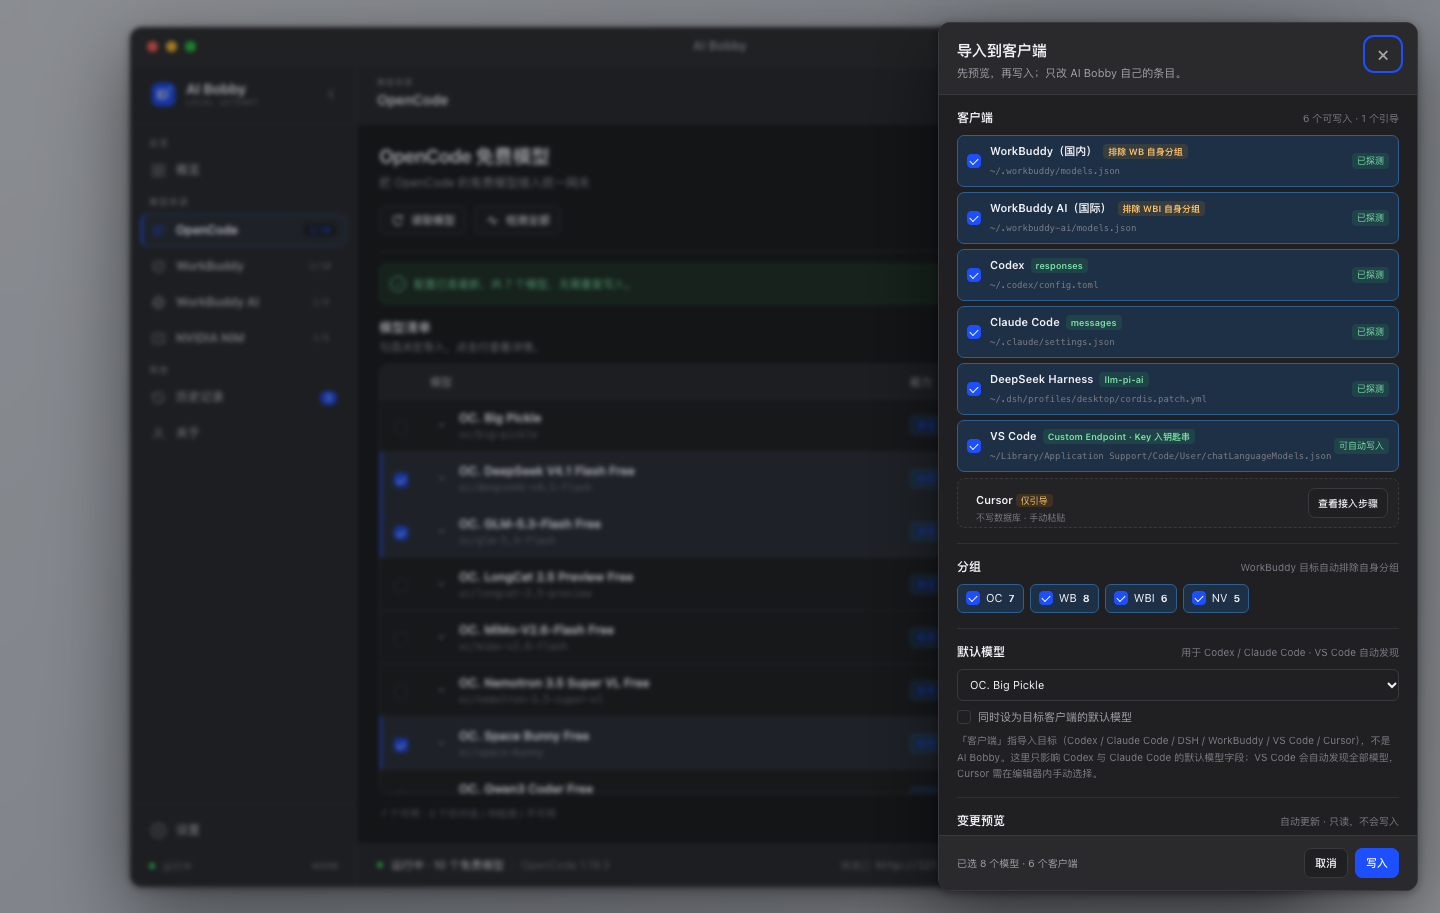
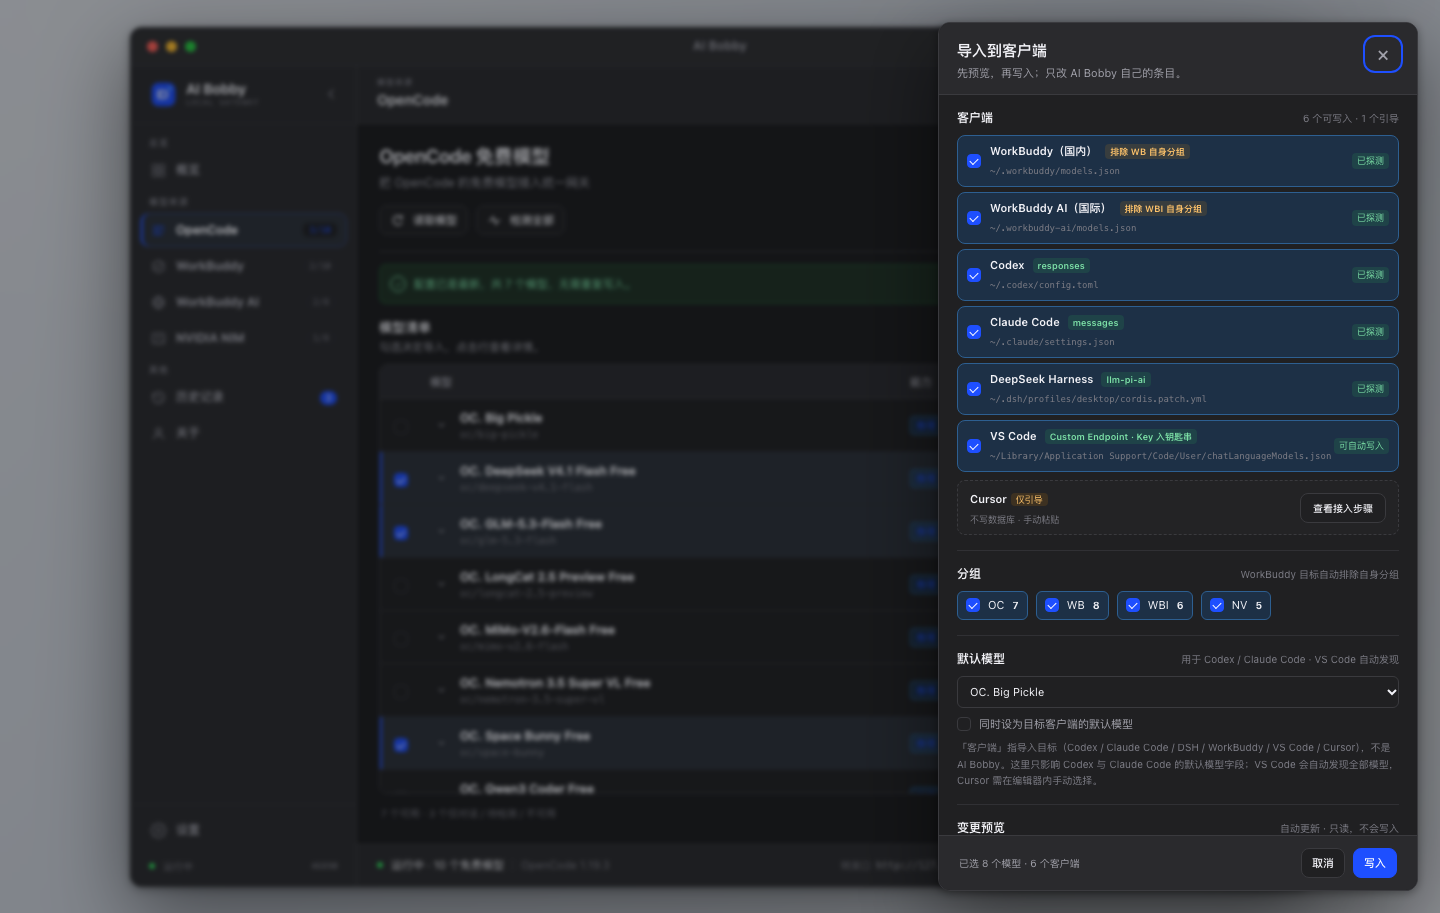
design: fix Cursor guide text touching its dashed border
The row container and the (now removed) copy button both used .guide-copy;
the button's fixed 24px height clipped the container, so the second line sat
on the border. Rename the container to .guide-text, drop the dead button
rule, and measure the 8px inset. Document the class/height rules in
ui-guideline §5.8.

diff --git a/prototype/desktop/styles.css b/prototype/desktop/styles.css
@@ -2042,9 +2042,9 @@ a.music-album-card .album-arrow { margin-left: auto; color: var(--accent); font-
   border-radius: 8px;
   background: color-mix(in oklab, var(--surface-2) 60%, transparent);
 }
-.guide-copy { min-width: 0; }
-.guide-copy strong { font-size: 11px; font-weight: 600; color: var(--text); }
-.guide-copy p { margin: 4px 0 0; color: var(--faint); font-size: 9px; }
+.guide-text { min-width: 0; }
+.guide-text strong { font-size: 11px; font-weight: 600; color: var(--text); }
+.guide-text p { margin: 4px 0 0; color: var(--faint); font-size: 9px; }
 .guide-open {
   flex: 0 0 auto;
   height: 28px;
@@ -2108,13 +2108,7 @@ a.music-album-card .album-arrow { margin-left: auto; color: var(--accent); font-
 .guide-steps strong { display: block; font-size: 11px; color: var(--text); }
 .guide-steps p { margin: 4px 0; color: var(--faint); font-size: 10px; line-height: 1.5; }
 .guide-steps code { font: 9px var(--mono); color: var(--muted-text); }
-.guide-steps .guide-url { display: block; margin-top: 3px; padding: 4px 8px; border-radius: 4px; background: var(--surface-2); }
-.guide-copy {
-  height: 24px;
-  padding: 0 8px;
-  font-size: 9px;
-  margin-top: 4px;
-}
+.guide-steps .guide-url { display: block; margin-top: 4px; padding: 4px 8px; border-radius: 4px; background: var(--surface-2); }
 .proxy-targets label.disabled { opacity: 0.45; }
 .proxy-targets input:disabled { cursor: not-allowed; }
 

diff --git a/prototype/desktop/app.js b/prototype/desktop/app.js
@@ -898,7 +898,7 @@
     const guides = CLIENTS.filter(client => client.mode === 'guide');
     $('#client-guide').innerHTML = guides.length === 0 ? '' : guides.map(client => `
       <div class="guide-row">
-        <div class="guide-copy">
+        <div class="guide-text">
           <strong>${escapeHtml(client.name)}</strong>
           <span class="client-status warn">${escapeHtml(client.status)}</span>
           <p>${escapeHtml(client.note)}</p>

diff --git a/prototype/desktop/README.md b/prototype/desktop/README.md
@@ -99,8 +99,8 @@ python3 -m http.server 8765 --bind 127.0.0.1
   分组新增 `NV`。
 - **设置**：新增「界面语言」（跟随系统 / 简体中文 / English）与「网络代理」
   （默认自定义 `http://127.0.0.1:10080`；关闭 / 跟随系统 / 自定义 + 按模型源勾选；OpenCode 子进程不受影响）。
-- 细节规范：弹窗内容统一 20px 留白（小弹窗 16px）、步骤不贴边；复选框统一品牌色实心 + 白勾；
-  复制的 Key / Base URL 都放弹窗 footer。
+- 细节规范：弹窗内容统一 20px 留白（小弹窗 16px）、步骤不贴边；卡片内容与边框至少 8px；
+  复选框统一品牌色实心 + 白勾；复制的 Key / Base URL 都放弹窗 footer。
 - 版本标识更新为 0.2.3；截图：`screenshot-nvidia.png`、`screenshot-settings.png`、
   `screenshot-import.png`、`screenshot-cursor-guide.png`。
 - 调研记录见 [docs/research-v0.2.3.md](../../docs/research-v0.2.3.md)。

diff --git a/handsoff.md b/handsoff.md
@@ -616,3 +616,13 @@ WorkBuddy 上游
   代理输入 32px 高、gap 8/12；概览 4 卡 gap 12。
 - ui-guideline §5.7 明确：弹窗 20px（小弹窗 16px），禁止 18/14 等非 4 倍数。
 - 其他验收项保持通过；Gitalk 仍未部署，等发布确认。
+
+
+### 2026-10-19 Round 22：导入面板文字贴边修复
+
+- 根因：`.guide-copy` 同时用作引导行容器和“复制 Key”按钮；按钮的 `height: 24px` 作用到容器，
+  裁切了内容，最后一行文字压在虚线上。
+- 修复：容器改名 `.guide-text`，删除已不用的按钮样式；行高由 padding + 内容撑开，
+  实测内容底部距边框 8px（+1px 边框）。
+- 新增 ui-guideline §5.8：class 一物一用、文字容器禁止固定高度、卡片内容 ≥8px、
+  用子元素 bottom 与容器 bottom 做自查。
